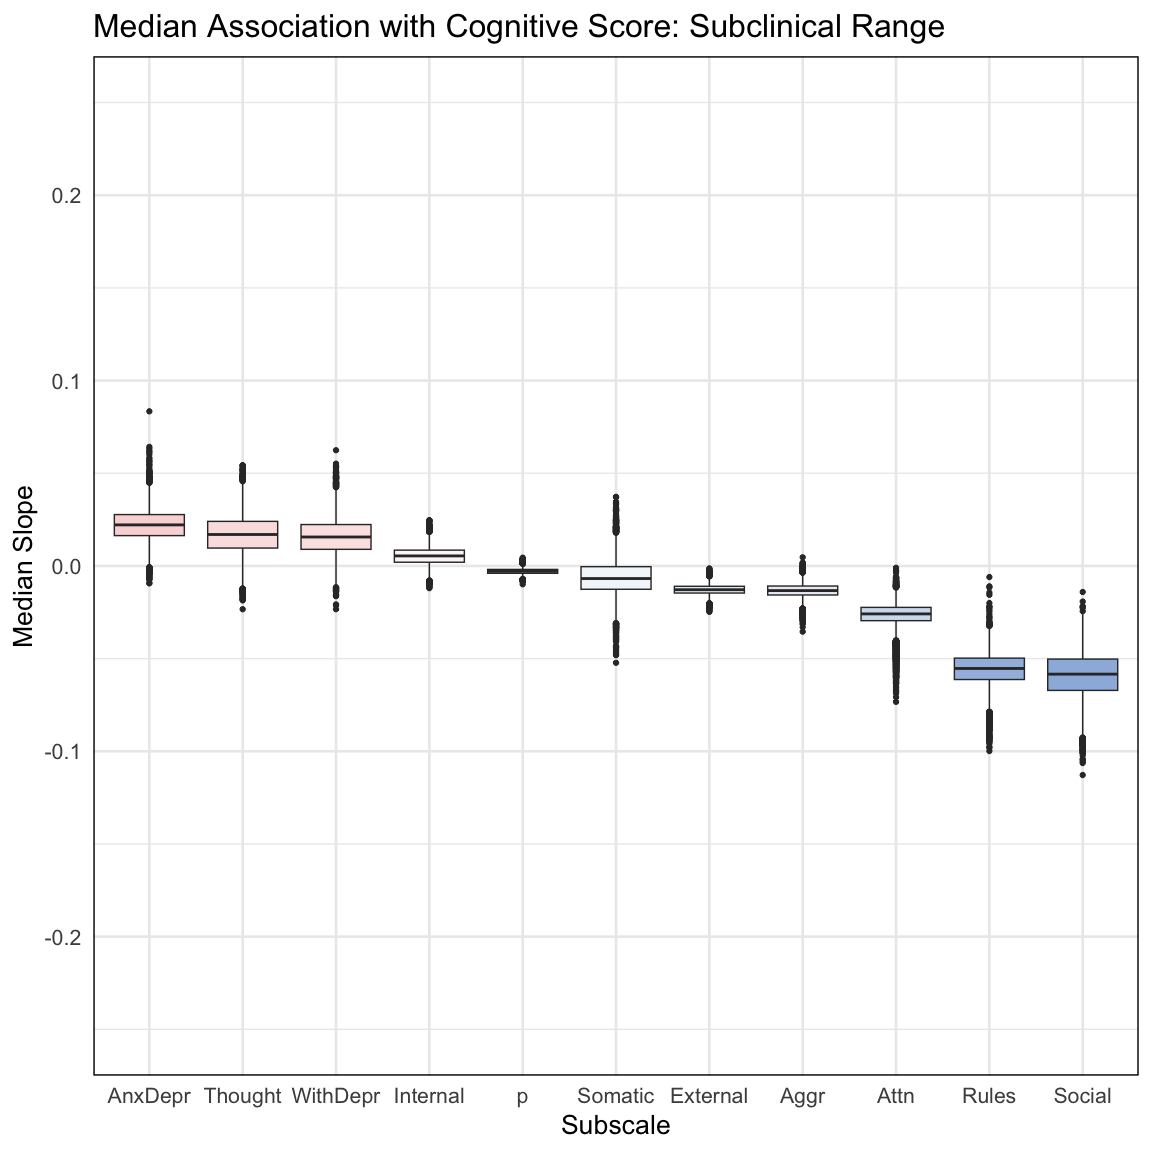
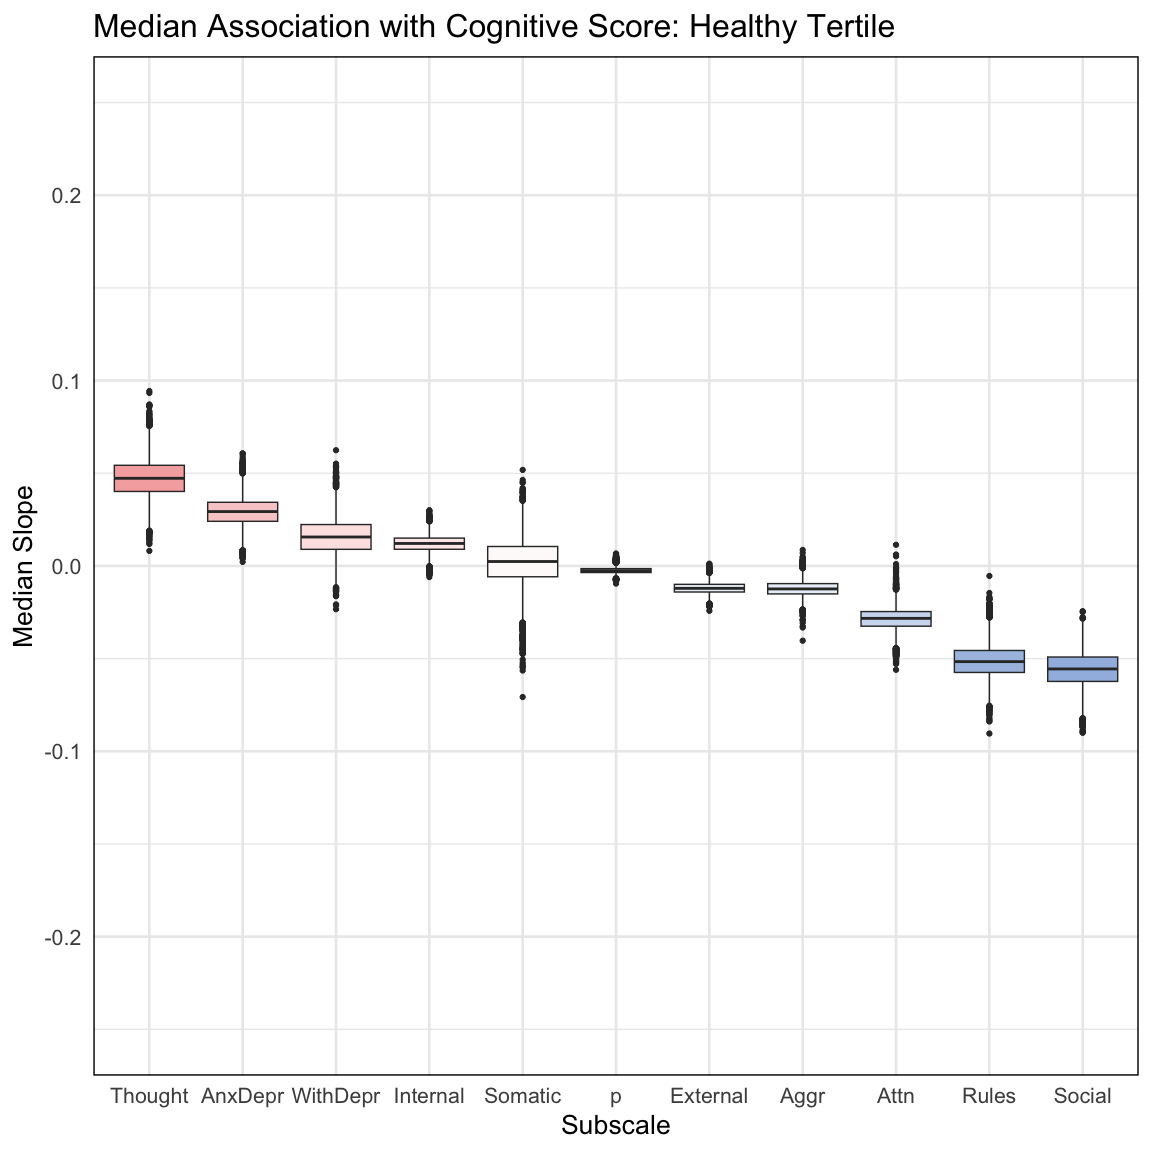
fig 1 wrap up

diff --git a/Figures/code/Fig1.md b/Figures/code/Fig1.md
@@ -786,19 +786,19 @@ ggplot(data=dervPlotDf) + geom_raster(aes(x = seq, y = .5, fill = sig_deriv))+
 ![](Fig1_files/figure-gfm/unnamed-chunk-6-12.png)<!-- -->
 
 ``` r
-# for each bootstrap, recover median slope in bottom 50th percentile
+# for each bootstrap, recover median slope in bottom and top tertiles
 df <- data.frame(
-  p = apply(PFits[, 1:Pbc], 1, median),
-  Internal = apply(IFits[, 1:Ibc], 1, median),
-  External = apply(EFits[, 1:Ebc], 1, median),
-  Somatic = apply(SomFits[, 1:SomBc], 1, median),
-  AnxDepr = apply(AnxFits[, 1:AnxBc], 1, median),
-  Thought = apply(ThoFits[, 1:ThoBc], 1, median),
-  WithDepr = apply(WitFits[, 1:WitBc], 1, median),
-  Social = apply(SocFits[, 1:SocBc], 1, median),
-  Attn = apply(AttFits[, 1:AttBc], 1, median),
-  Rules = apply(RulFits[, 1:RulBc], 1, median),
-  Aggr = apply(AggFits[, 1:AggBc], 1, median)
+  p = apply(PFits[, 1:(MaxP/3)], 1, median),
+  Internal = apply(IFits[, 1:(MaxI/3)], 1, median),
+  External = apply(EFits[, 1:(MaxE/3)], 1, median),
+  Somatic = apply(SomFits[, 1:(MaxSom/3)], 1, median),
+  AnxDepr = apply(AnxFits[, 1:(MaxAnx/3)], 1, median),
+  Thought = apply(ThoFits[, 1:(MaxTho/3)], 1, median),
+  WithDepr = apply(WitFits[, 1:(MaxWit/3)], 1, median),
+  Social = apply(SocFits[, 1:(MaxSoc/3)], 1, median),
+  Attn = apply(AttFits[, 1:(MaxAtt/3)], 1, median),
+  Rules = apply(RulFits[, 1:(MaxRul/3)], 1, median),
+  Aggr = apply(AggFits[, 1:(MaxAgg/3)], 1, median)
 )
 
 # Convert the data frame to a tidy format
@@ -818,7 +818,7 @@ df_tidy$Subscale <- reorder(df_tidy$Subscale, -df_tidy$MedianValue, median)
 # Create the boxplot
 ggplot(df_tidy, aes(x = Subscale, y = MedianValue,fill=MedianIteration)) +
   geom_boxplot() +
-  labs(title = "Median Association with Cognitive Score: Subclinical Range",
+  labs(title = "Median Association with Cognitive Score: Healthy Tertile",
        x = "Subscale",
        y = "Median Slope") +
   theme_minimal(base_size=20)+scale_fill_gradientn(
@@ -830,41 +830,40 @@ ggplot(df_tidy, aes(x = Subscale, y = MedianValue,fill=MedianIteration)) +
 
 ``` r
 # and now a clinical risk group
-
-
 # only in clinical range
 df <- data.frame(
-  p = apply(PFits[, -(1:Pbc)], 1, median),
-  Internal = apply(IFits[, -(1:Ibc)], 1, median),
-  External = apply(EFits[, -(1:Ebc)], 1, median),
-  Somatic = apply(SomFits[, -(1:SomBc)], 1, median),
-  AnxDepr = apply(AnxFits[, -(1:AnxBc)], 1, median),
-  Thought = apply(ThoFits[, -(1:ThoBc)], 1, median),
-  WithDepr = apply(WitFits[, -(1:WitBc)], 1, median),
-  Social = apply(SocFits[, -(1:SocBc)], 1, median),
-  Attn = apply(AttFits[, -(1:AttBc)], 1, median),
-  Rules = apply(RulFits[, -(1:AttBc)], 1, median),
-  Aggr = apply(AggFits[, -(1:AggBc)], 1, median)
+  p = apply(PFits[, (MaxP/1.5):MaxP], 1, median),
+  Internal = apply(IFits[, (MaxI/1.5):MaxI], 1, median),
+  External = apply(EFits[, (MaxE/1.5):MaxE], 1, median),
+  Somatic = apply(SomFits[, (MaxSom/1.5):MaxSom], 1, median),
+  AnxDepr = apply(AnxFits[, (MaxAnx/1.5):MaxAnx], 1, median),
+  Thought = apply(ThoFits[, (MaxTho/1.5):MaxTho], 1, median),
+  WithDepr = apply(WitFits[, (MaxWit/1.5):MaxWit], 1, median),
+  Social = apply(SocFits[, (MaxSoc/1.5):MaxSoc], 1, median),
+  Attn = apply(AttFits[, (MaxAtt/1.5):MaxAtt], 1, median),
+  Rules = apply(RulFits[, (MaxRul/1.5):MaxRul], 1, median),
+  Aggr = apply(AggFits[, (MaxAgg/1.5):MaxAgg], 1, median)
 )
 
 # Convert the data frame to a tidy format
-df_tidy <- df %>%
+df_tidy2 <- df %>%
   gather(key = "Subscale", value = "MedianValue")
 
 # Calculate the median for each subscale iteration
-df_median <- df_tidy %>%
+df_median <- df_tidy2 %>%
   group_by(Subscale) %>%
   summarize(MedianIteration = median(MedianValue))
 
 # Join the MedianIteration column to df_tidy based on Subscale
-df_tidy <- left_join(df_tidy, df_median, by = "Subscale")
+df_tidy2 <- left_join(df_tidy2, df_median, by = "Subscale")
 
-df_tidy$Subscale <- reorder(df_tidy$Subscale, -df_tidy$MedianValue, median)
+# note we are sorting by plot one's order
+df_tidy2$Subscale <- reorder(df_tidy2$Subscale, -df_tidy$MedianValue, median)
 
 # Create the boxplot
-ggplot(df_tidy, aes(x = Subscale, y = MedianValue,fill=MedianIteration)) +
+ggplot(df_tidy2, aes(x = Subscale, y = MedianValue,fill=MedianIteration)) +
   geom_boxplot() +
-  labs(title = "Median Association with Cognitive Score: Clinical Range",
+  labs(title = "Median Association with Cognitive Score: Clinical Tertile",
        x = "Subscale",
        y = "Median Slope") +
   theme_minimal(base_size=20)+scale_fill_gradientn(
@@ -872,6 +871,6 @@ ggplot(df_tidy, aes(x = Subscale, y = MedianValue,fill=MedianIteration)) +
     limits = c(-.27,.27))+guides(fill=F)+theme(panel.border = element_rect(color = "black", fill = NA, size = 1))+ylim(c(-.25,.25))
 ```
 
-    ## Warning: Removed 3 rows containing non-finite values (`stat_boxplot()`).
+    ## Warning: Removed 1 rows containing non-finite values (`stat_boxplot()`).
 
 ![](Fig1_files/figure-gfm/unnamed-chunk-8-1.png)<!-- -->
